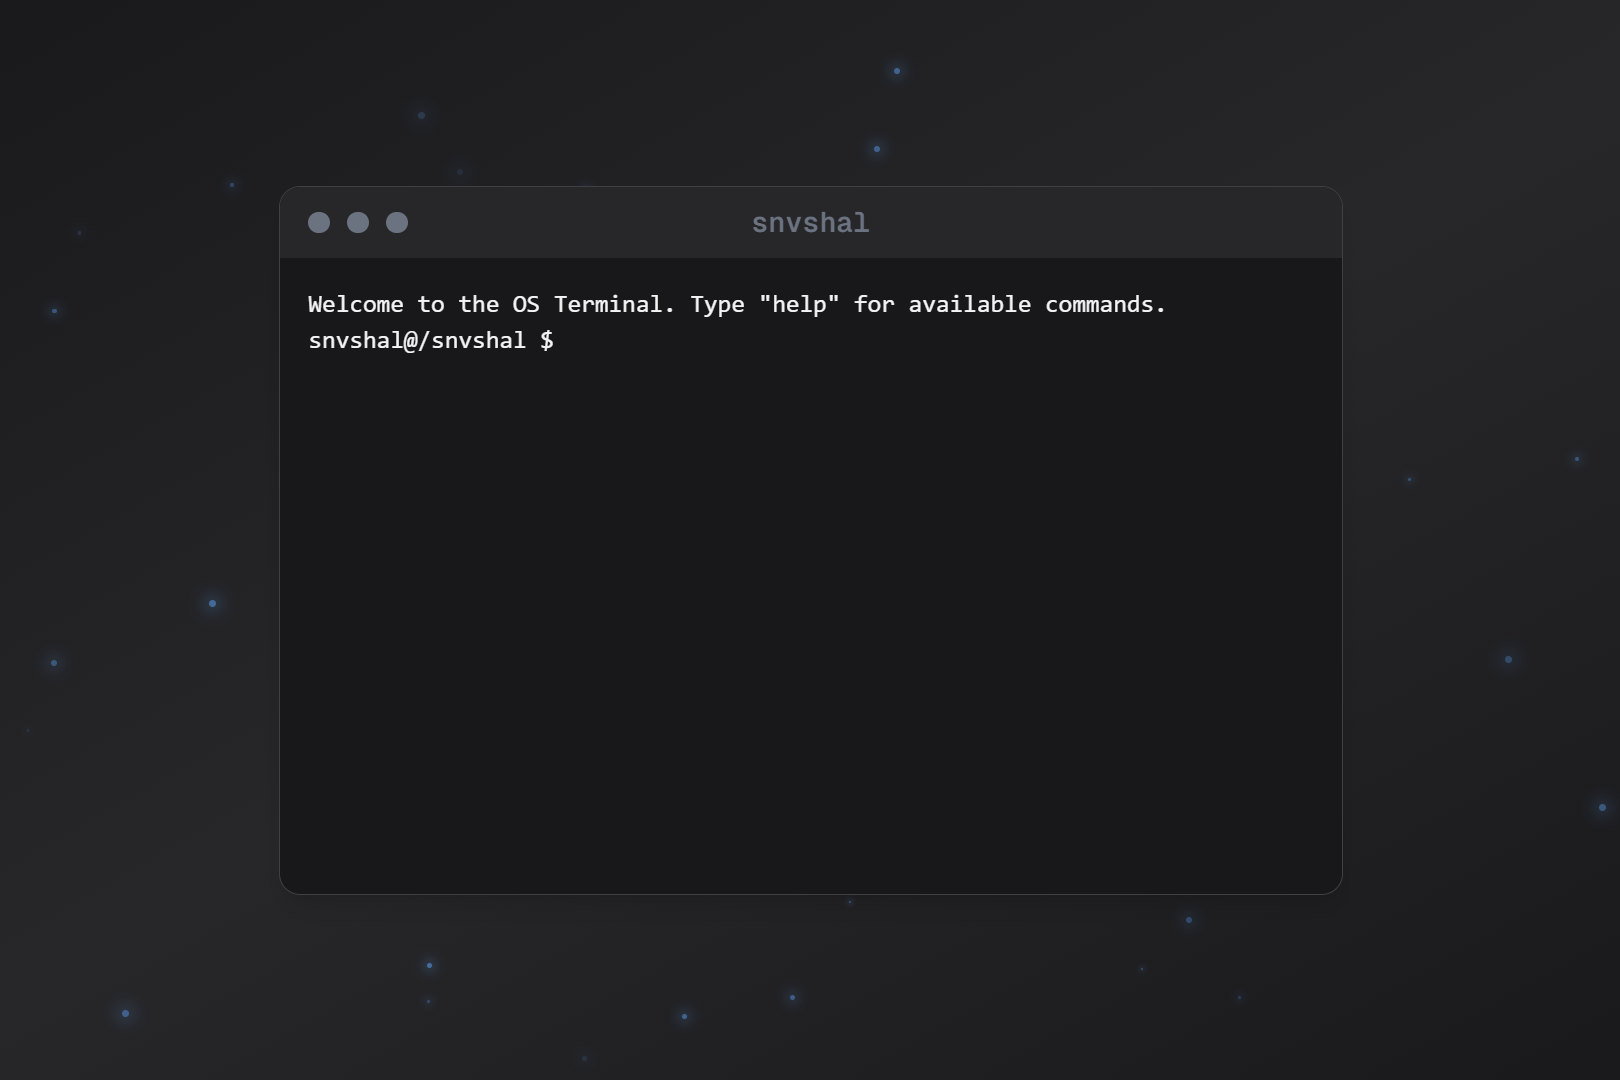
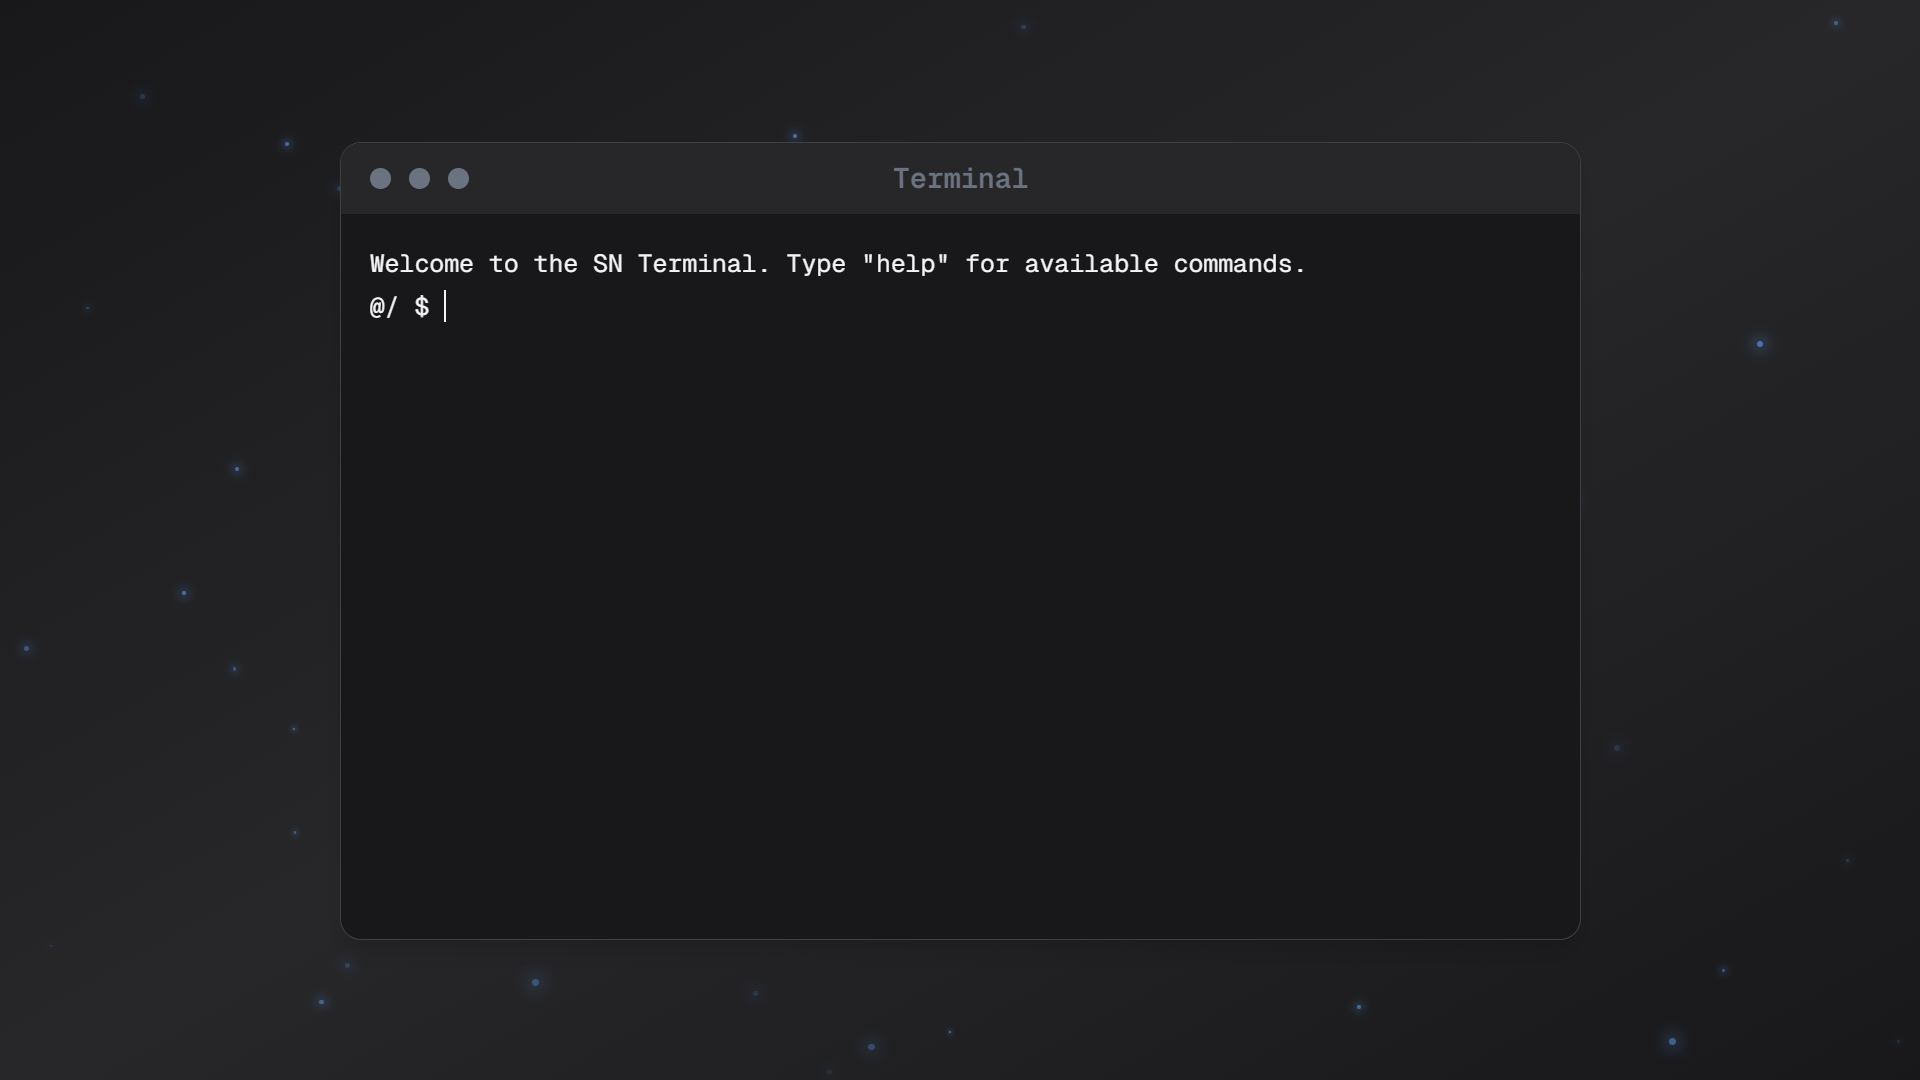
add profile card

Changed region(s): [[0.1852, 0.1528, 0.4321, 0.3361], [0.4321, 0.1528, 0.7099, 0.3056]]

diff --git a/components/ProfileCard.tsx b/components/ProfileCard.tsx
@@ -1,0 +1,75 @@
+import Image from "next/image"
+import Link from "next/link"
+import { Mail, Globe } from "lucide-react"
+import { cn } from "@/lib/utils"
+
+export type ProfileCardProps = {
+  name: string
+  title: string
+  bio: string
+  email: string
+  avatar: string
+  portfolioUrl: string
+}
+
+const ProfileCard: React.FC<ProfileCardProps> = ({
+  name,
+  title,
+  bio,
+  email,
+  avatar,
+  portfolioUrl,
+}) => {
+  return (
+    <div className="my-2 w-full max-w-2xl border border-zinc-700 p-4 font-mono text-sm text-zinc-100 shadow-lg">
+      <div className="flex flex-col md:flex-row md:gap-8">
+        <div className="mb-4 md:mb-0">
+          <div className="w-48 border border-zinc-700 bg-zinc-800">
+            <div className="relative aspect-square">
+              <Image
+                src={avatar || "/placeholder-avatar.svg"}
+                alt={`${name}'s avatar`}
+                sizes="160px"
+                fill
+                className="object-cover"
+              />
+            </div>
+            <div className="border-t border-zinc-700 p-2">
+              <div className="truncate font-bold">{name}</div>
+              <div className="truncate text-xs text-zinc-400">{title}</div>
+            </div>
+          </div>
+        </div>
+        <div className="flex flex-1 flex-col justify-between space-y-4 text-wrap">
+          <div className="space-y-4">
+            <div className="flex items-start space-x-2">
+              <p>{bio}</p>
+            </div>
+            <div className="flex items-center space-x-2">
+              <Mail className="h-4 w-4 text-blue-400" />
+              <span className={cn(email === "Not set" && "italic")}>
+                {email !== "Not set" ? email : "Email not set"}
+              </span>
+            </div>
+            <div className="flex items-center space-x-2">
+              <Globe className="h-4 w-4 text-yellow-400" />
+              <Link
+                href={portfolioUrl}
+                className="text-blue-400 hover:text-blue-300 hover:underline"
+                target="_blank"
+                rel="noopener noreferrer"
+              >
+                {portfolioUrl}
+              </Link>
+            </div>
+          </div>
+          <div className="text-xs text-zinc-500">
+            Type &apos;help&apos; for available commands
+          </div>
+        </div>
+      </div>
+    </div>
+  )
+}
+
+export default ProfileCard

diff --git a/components/Terminal.tsx b/components/Terminal.tsx
@@ -7,6 +7,7 @@ import { cn } from "@/lib/utils"
 import Window from "./Window"
 import { useRouter } from "next/navigation"
 import { AnimatedLoading } from "./Animations"
+import ProfileCard from "./ProfileCard"
 
 export type TerminalProps = {
   initialPosition: { x: number; y: number }
@@ -139,6 +140,11 @@ const Terminal: React.FC<TerminalProps> = ({ initialPosition, onClose }) => {
   }
 
   const renderLine = (line: string): React.JSX.Element => {
+    if (line.startsWith("profile://")) {
+      const profileData = JSON.parse(line.replace("profile://", ""))
+      return <ProfileCard {...profileData} />
+    }
+
     if (line.includes("fileurl://")) {
       const parts = line.split(/(fileurl:\/\/\S+)/)
 
@@ -174,14 +180,14 @@ const Terminal: React.FC<TerminalProps> = ({ initialPosition, onClose }) => {
       initialPosition={initialPosition}
     >
       <div
-        className="window-scrollbar h-full w-full overflow-y-auto p-4 font-mono text-sm text-zinc-100"
+        className="window-scrollbar h-full w-full overflow-y-auto p-4 text-sm text-zinc-100"
         ref={outputRef}
       >
         {output.map((line, index) => (
           <div
             key={index}
             className={cn(
-              "whitespace-pre",
+              "whitespace-pre leading-6",
               line.startsWith("Error:") && "text-red-500",
             )}
           >
@@ -191,7 +197,7 @@ const Terminal: React.FC<TerminalProps> = ({ initialPosition, onClose }) => {
 
         {!loading ? (
           !isExecuting && (
-            <div className="flex items-center whitespace-pre">
+            <div className="flex items-center whitespace-pre leading-6">
               {inputMode ? (
                 <>
                   <span>{inputMode.steps[inputMode.currentStep].prompt} </span>

diff --git a/contexts/PortfolioContext.tsx b/contexts/PortfolioContext.tsx
@@ -389,19 +389,18 @@ export const PortfolioProvider: React.FC<{
     const baseURL = window.location.origin
 
     if (!section) {
+      const profileData = {
+        name: portfolio.name,
+        title: portfolio.title,
+        bio: portfolio.bio,
+        email: portfolio.email || "Not set",
+        avatar: portfolio.avatar || "/placeholder-avatar.svg",
+        portfolioUrl: `${baseURL}/${currentUser}`,
+      }
+
       return [
-        "Portfolio Overview:",
-        "                                                   ",
-        `Name             ${portfolio.name}`,
-        `Title            ${portfolio.title}`,
-        `Bio              ${portfolio.bio}`,
-        `Email            ${portfolio.email || "Not set"}`,
-        `Avatar           ${portfolio.avatar ? "fileurl://" + portfolio.avatar : "Not set"}`,
-        "                                                   ",
-        `View your portfolio here: fileurl://${baseURL}/${currentUser}`,
-        "                                                   ",
-        "Use 'view <section>' to see details:",
-        "example: view [skills, projects, experiences, education, hobbies or social links]",
+        `profile://${JSON.stringify(profileData)}`,
+        "Use 'view <section>' to see details. Example: 'view projects'",
       ]
     }
 

diff --git a/app/actions.ts b/app/actions.ts
@@ -246,17 +246,17 @@ export async function searchUser(username: string): Promise<string[]> {
     if (!user) return [`User not found: '${username}'`]
 
     const portfolio = user.portfolio
-    return [
-      `Portfolio Overview of ${username}:`,
-      "                                                   ",
-      `Name         ${portfolio.name}`,
-      `Title        ${portfolio.title}`,
-      `Bio          ${portfolio.bio}`,
-      `Email        ${portfolio.email || "Not set"}`,
-      `Avatar       ${portfolio.avatar || "Not set"}`,
-      "                                                   ",
-      `View ${portfolio.name}'s portfolio here: fileurl://${process.env.METADATA_BASE_URL}/${username}`,
-    ]
+
+    const profileData = {
+      name: portfolio.name,
+      title: portfolio.title,
+      bio: portfolio.bio,
+      email: portfolio.email || "Not set",
+      avatar: portfolio.avatar || "/placeholder-avatar.svg",
+      portfolioUrl: `${process.env.METADATA_BASE_URL}/${username}`,
+    }
+
+    return [`profile://${JSON.stringify(profileData)}`]
   } catch (error) {
     console.error("Error searching for user:", error)
     return ["An error occurred while searching for the user"]

diff --git a/components/ResumePDF.tsx b/components/ResumePDF.tsx
@@ -278,7 +278,7 @@ const ResumePDF: React.FC<ResumePDFProps> = ({ portfolio }) => (
       </View>
 
       <View style={styles.section}>
-        <Text style={styles.sectionTitle}>Professional Experience</Text>
+        <Text style={styles.sectionTitle}>Experience</Text>
         {portfolio.experiences.map((exp, index) => (
           <View key={index} style={styles.experienceBlock}>
             <Text style={styles.roleTitle}>{exp.role}</Text>
@@ -295,7 +295,7 @@ const ResumePDF: React.FC<ResumePDFProps> = ({ portfolio }) => (
       </View>
 
       <View style={styles.section}>
-        <Text style={styles.sectionTitle}>Notable Projects</Text>
+        <Text style={styles.sectionTitle}>Projects</Text>
         {portfolio.projects.map((project, index) => (
           <View key={index} style={styles.projectBlock}>
             <View style={styles.projectHeader}>

diff --git a/components/Window.tsx b/components/Window.tsx
@@ -5,7 +5,7 @@ import useFullScreen from "@/hooks/useFullScreen"
 import { WindowProps, WindowHeaderProps } from "@/types/props"
 import { GlassyBlurSkeleton } from "./Animations"
 
-export const initialWindowSize = { width: 600, height: 400 }
+export const initialWindowSize = { width: 700, height: 400 }
 
 const WindowHeader: React.FC<WindowHeaderProps> = ({
   title,
